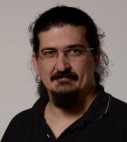
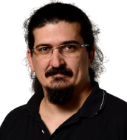
Cambiada mi foto

diff --git a/index.html b/index.html
@@ -491,7 +491,7 @@
 			  <tr>
 			    <td align="center"> 
 			      <a href="http://staff.dc.uba.ar/adiazcaro">Alejandro<br>D&iacute;az-Caro</a><br>
-			      <a href="http://staff.dc.uba.ar/adiazcaro"><img src="images/PicsArt_05-19-07.13.38.png" border=0 alt="[Diaz-Caro]"></a><br>
+			      <a href="http://staff.dc.uba.ar/adiazcaro"><img src="images/AlejandroDiazCaro.png" border=0 alt="[Diaz-Caro]"></a><br>
 			      (Team leader)
 			    </td>
 			    <td align="center"> 
